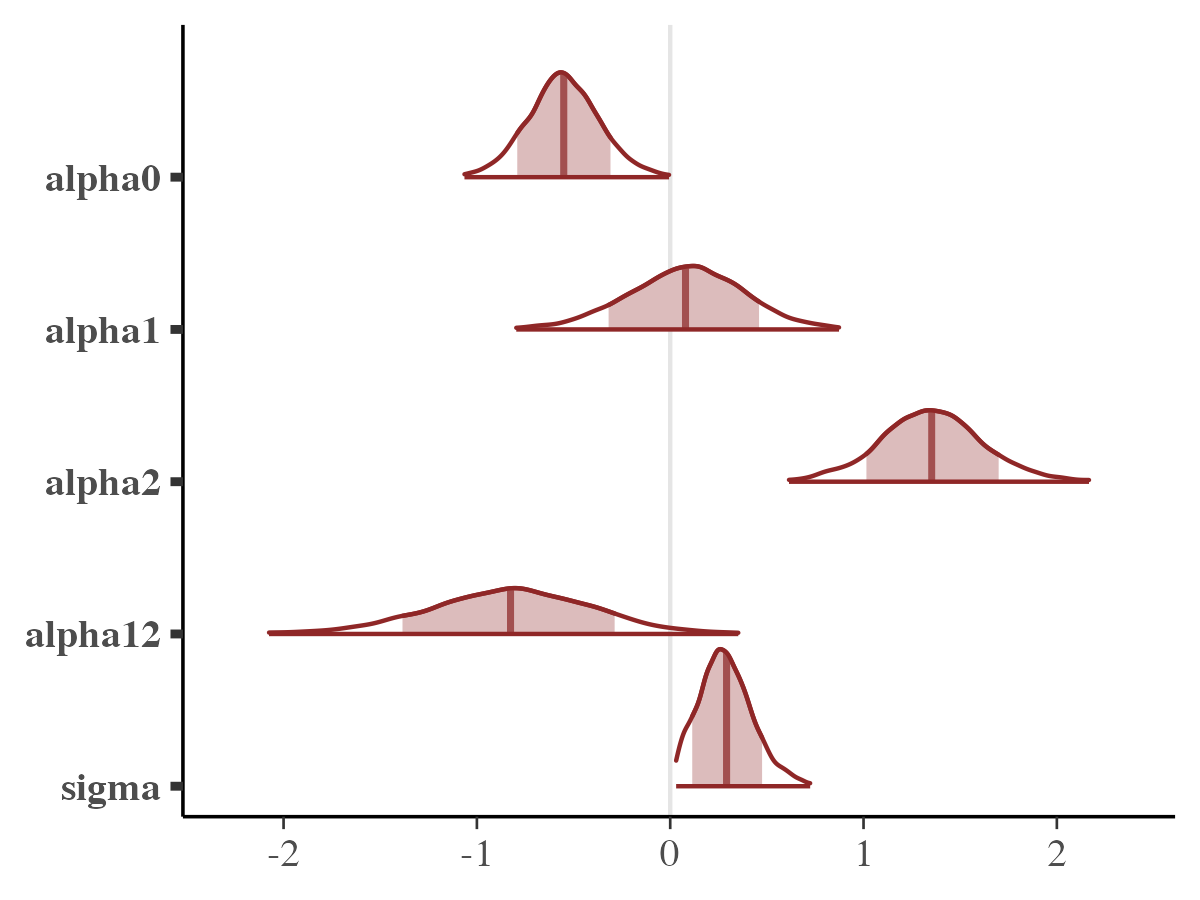
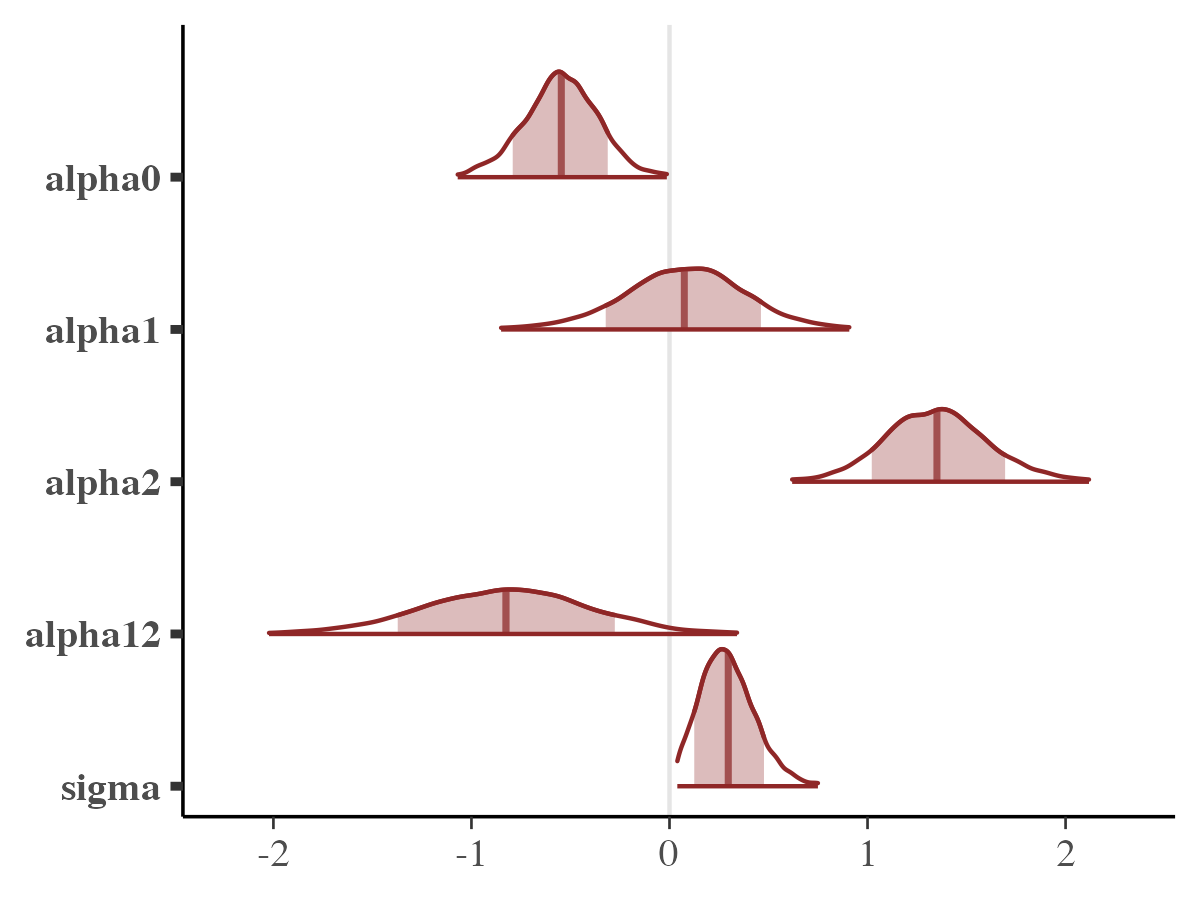
deploy: 54efe5b37b119c70c97fbd54c7b292494238184d

diff --git a/articles/rjuliabugs.html b/articles/rjuliabugs.html
@@ -260,17 +260,17 @@ through <code>summary</code> function</p>
 <span><span class="co">#&gt; </span></span>
 <span><span class="co">#&gt; Summary Statistics:</span></span>
 <span><span class="co">#&gt; </span></span>
-<span><span class="co">#&gt;  parameters      mean      std     mcse ess_bulk ess_tail  rhat ess_per_sec</span></span>
-<span><span class="co">#&gt;         tau 50.089012 127.9604 8.831594    285.3    262.6 1.008          NA</span></span>
-<span><span class="co">#&gt;     alpha12 -0.820283   0.4231 0.007280   3351.3   4107.4 1.002          NA</span></span>
-<span><span class="co">#&gt;      alpha2  1.353588   0.2705 0.004765   3213.5   3452.7 1.001          NA</span></span>
-<span><span class="co">#&gt;      alpha1  0.086823   0.3066 0.005361   3302.0   3537.7 1.001          NA</span></span>
-<span><span class="co">#&gt;      alpha0 -0.553182   0.1905 0.003300   3322.5   3668.0 1.001          NA</span></span>
-<span><span class="co">#&gt;        b[1] -0.188953   0.2561 0.006392   1734.5   3173.5 1.002          NA</span></span>
-<span><span class="co">#&gt;        b[2]  0.004439   0.2157 0.002818   6077.7   3772.8 1.003          NA</span></span>
-<span><span class="co">#&gt;        b[3] -0.192697   0.2309 0.005854   1682.4   3355.3 1.001          NA</span></span>
-<span><span class="co">#&gt;        b[4]  0.259572   0.2537 0.007995   1026.7   3976.4 1.001          NA</span></span>
-<span><span class="co">#&gt;        b[5]  0.111043   0.2355 0.003748   4143.1   4119.8 1.001          NA</span></span>
+<span><span class="co">#&gt;  parameters      mean     std     mcse ess_bulk ess_tail  rhat ess_per_sec</span></span>
+<span><span class="co">#&gt;         tau 40.728874 83.6984 4.547781    377.7    527.2 1.016          NA</span></span>
+<span><span class="co">#&gt;     alpha12 -0.826232  0.4313 0.007656   3189.8   3570.6 1.002          NA</span></span>
+<span><span class="co">#&gt;      alpha2  1.353548  0.2754 0.004883   3209.7   2994.7 1.001          NA</span></span>
+<span><span class="co">#&gt;      alpha1  0.090132  0.3129 0.005386   3397.7   3736.4 1.001          NA</span></span>
+<span><span class="co">#&gt;      alpha0 -0.554189  0.1941 0.003363   3308.1   4002.7 1.001          NA</span></span>
+<span><span class="co">#&gt;        b[1] -0.192549  0.2589 0.005731   2242.2   4668.6 1.002          NA</span></span>
+<span><span class="co">#&gt;        b[2]  0.006739  0.2210 0.002857   5994.1   4400.5 1.003          NA</span></span>
+<span><span class="co">#&gt;        b[3] -0.194085  0.2313 0.004890   2350.7   5122.7 1.001          NA</span></span>
+<span><span class="co">#&gt;        b[4]  0.267069  0.2580 0.007305   1238.9   3878.9 1.006          NA</span></span>
+<span><span class="co">#&gt;        b[5]  0.114354  0.2369 0.003768   4271.4   4549.5 1.002          NA</span></span>
 <span><span class="co">#&gt;          ...</span></span>
 <span><span class="co">#&gt;   17 rows omitted</span></span></code></pre></div>
 <p>If we wish to obtain the summary statistics for each saved parameter,
@@ -381,7 +381,7 @@ package:</p>
 <span></span>
 <span><span class="co"># Example: effective sample size</span></span>
 <span><span class="fu">posterior</span><span class="fu">::</span><span class="fu"><a href="https://mc-stan.org/posterior/reference/ess_basic.html" class="external-link">ess_basic</a></span><span class="op">(</span><span class="va">posterior</span><span class="op">$</span><span class="va">params</span><span class="op">[</span>,,<span class="st">"alpha0"</span><span class="op">]</span><span class="op">)</span></span>
-<span><span class="co">#&gt; [1] 3331.92</span></span></code></pre></div>
+<span><span class="co">#&gt; [1] 3333.753</span></span></code></pre></div>
 </div>
 <div class="section level2">
 <h2 id="saving-and-loading-the-rjuliabugs-model">Saving and loading the <code>rjuliabugs</code> model<a class="anchor" aria-label="anchor" href="#saving-and-loading-the-rjuliabugs-model"></a>
